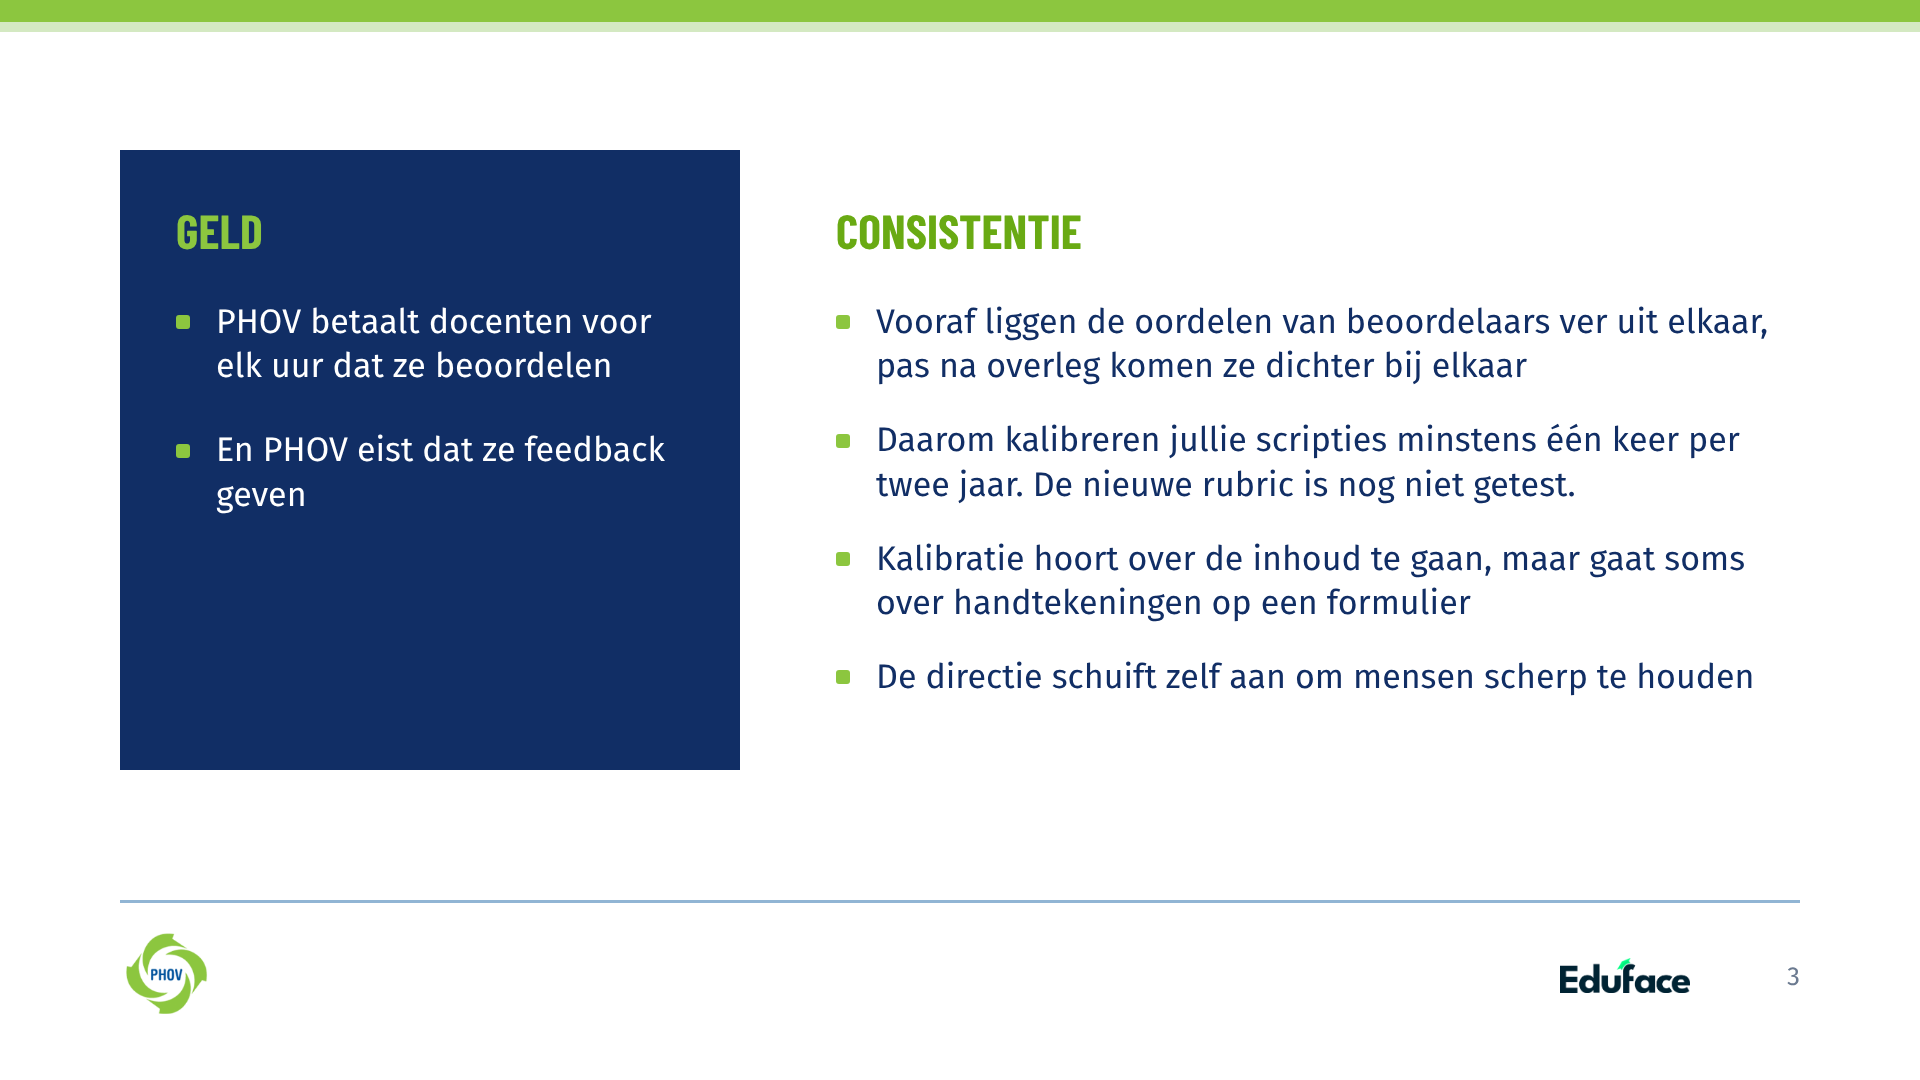
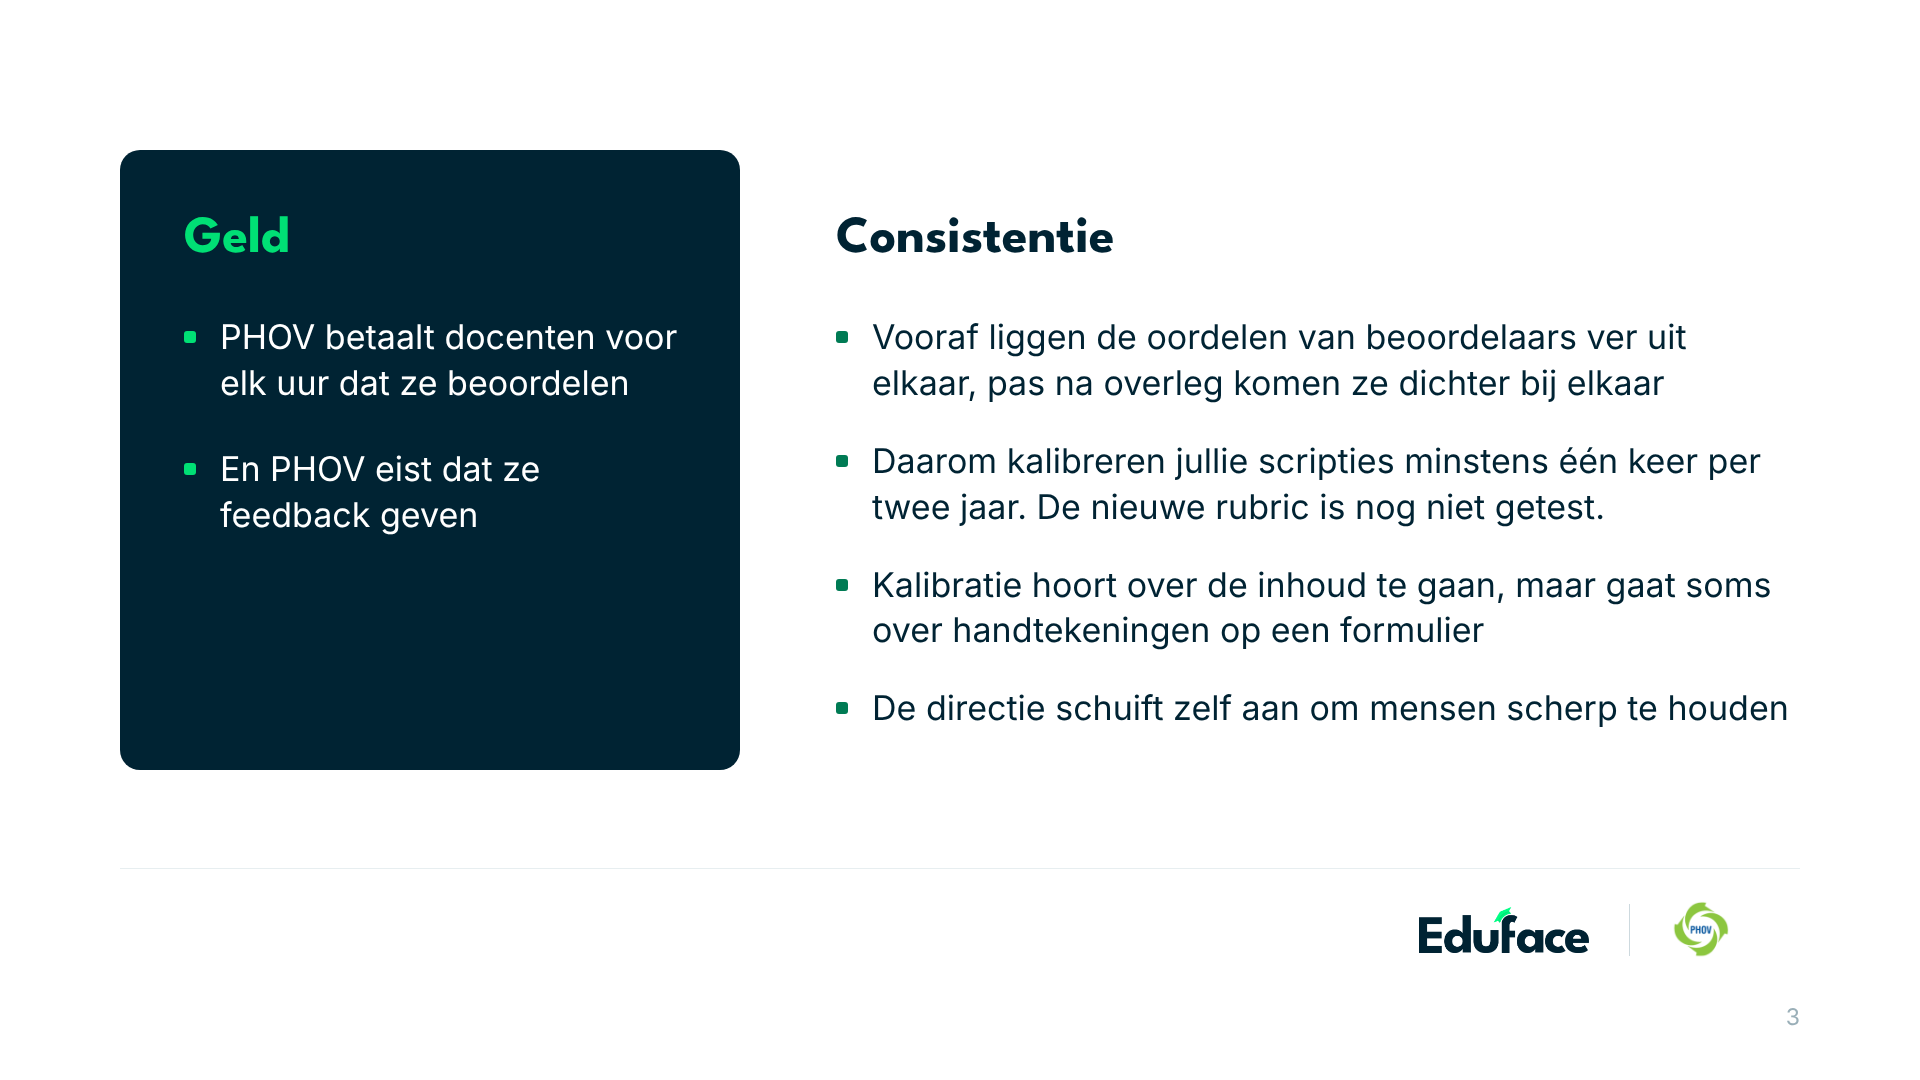
PHOV-deck: over naar Eduface-stijl, proefslide 3 opnieuw
Claude-Session: https://claude.ai/code/session_011t24oTGXT853tnxP2SMa8Y

diff --git a/GTM/Accounts/phov/deck/preview/slide-3.html b/GTM/Accounts/phov/deck/preview/slide-3.html
@@ -1,1 +1,1 @@
-<!DOCTYPE html><html lang="nl"><head><meta charset="utf-8"><link href="https://fonts.googleapis.com/css2?family=Barlow+Condensed:wght@400;700&family=Fira+Sans:wght@400;700&display=swap" rel="stylesheet"><style>*{margin:0;padding:0;box-sizing:border-box}.slide{position:relative;width:1920px;height:1080px;overflow:hidden;background:#fff}</style></head><body><div class="slide"><div style="position:absolute;left:0.0px;top:0.0px;width:1920.0px;height:22.0px;background:#8CC63F;border-radius:0.0px"></div><div style="position:absolute;left:0.0px;top:22.0px;width:1920.0px;height:10.0px;background:#D4E9C2;border-radius:0.0px"></div><div style="position:absolute;left:120.0px;top:900.0px;width:1680.0px;height:3.0px;background:#91B5D4;border-radius:0.0px"></div><img src="../assets/klant.png" style="position:absolute;left:120.0px;top:930.0px;width:90.0px;height:90.0px;object-fit:contain"><img src="../assets/logo_navy.png" style="position:absolute;left:1560.0px;top:958.0px;width:130.0px;height:35.0px;object-fit:contain"><div style="position:absolute;left:1720.0px;top:960.0px;width:80.0px;height:36.0px;font-family:'Fira Sans',sans-serif;font-size:26px;font-weight:400;color:#6B7A90;text-align:right;line-height:1.3;white-space:pre-line;outline:var(--dbg)">3</div><div style="position:absolute;left:120.0px;top:150.0px;width:620.0px;height:620.0px;background:#112E65;border-radius:0.0px"></div><div style="position:absolute;left:176.0px;top:206.0px;width:520.0px;height:60.0px;font-family:'Barlow Condensed',sans-serif;font-size:48px;font-weight:700;color:#8CC63F;text-align:left;line-height:1.0;white-space:pre-line;outline:var(--dbg)">GELD</div><div style="position:absolute;left:176.0px;top:315.1px;width:14.0px;height:14.0px;background:#8CC63F;border-radius:3.0px"></div><div style="position:absolute;left:216.0px;top:300.0px;width:480.0px;height:88.4px;font-family:'Fira Sans',sans-serif;font-size:34px;font-weight:400;color:#FFFFFF;text-align:left;line-height:1.3;white-space:pre-line;outline:var(--dbg)">PHOV betaalt docenten voor elk uur dat ze beoordelen</div><div style="position:absolute;left:176.0px;top:443.5px;width:14.0px;height:14.0px;background:#8CC63F;border-radius:3.0px"></div><div style="position:absolute;left:216.0px;top:428.4px;width:480.0px;height:88.4px;font-family:'Fira Sans',sans-serif;font-size:34px;font-weight:400;color:#FFFFFF;text-align:left;line-height:1.3;white-space:pre-line;outline:var(--dbg)">En PHOV eist dat ze feedback geven</div><div style="position:absolute;left:836.0px;top:206.0px;width:800.0px;height:60.0px;font-family:'Barlow Condensed',sans-serif;font-size:48px;font-weight:700;color:#69AA13;text-align:left;line-height:1.0;white-space:pre-line;outline:var(--dbg)">CONSISTENTIE</div><div style="position:absolute;left:836.0px;top:315.1px;width:14.0px;height:14.0px;background:#8CC63F;border-radius:3.0px"></div><div style="position:absolute;left:876.0px;top:300.0px;width:924.0px;height:88.4px;font-family:'Fira Sans',sans-serif;font-size:34px;font-weight:400;color:#112E65;text-align:left;line-height:1.3;white-space:pre-line;outline:var(--dbg)">Vooraf liggen de oordelen van beoordelaars ver uit elkaar, pas na overleg komen ze dichter bij elkaar</div><div style="position:absolute;left:836.0px;top:433.5px;width:14.0px;height:14.0px;background:#8CC63F;border-radius:3.0px"></div><div style="position:absolute;left:876.0px;top:418.4px;width:924.0px;height:88.4px;font-family:'Fira Sans',sans-serif;font-size:34px;font-weight:400;color:#112E65;text-align:left;line-height:1.3;white-space:pre-line;outline:var(--dbg)">Daarom kalibreren jullie scripties minstens één keer per twee jaar. De nieuwe rubric is nog niet getest.</div><div style="position:absolute;left:836.0px;top:551.9px;width:14.0px;height:14.0px;background:#8CC63F;border-radius:3.0px"></div><div style="position:absolute;left:876.0px;top:536.8px;width:924.0px;height:88.4px;font-family:'Fira Sans',sans-serif;font-size:34px;font-weight:400;color:#112E65;text-align:left;line-height:1.3;white-space:pre-line;outline:var(--dbg)">Kalibratie hoort over de inhoud te gaan, maar gaat soms over handtekeningen op een formulier</div><div style="position:absolute;left:836.0px;top:670.3px;width:14.0px;height:14.0px;background:#8CC63F;border-radius:3.0px"></div><div style="position:absolute;left:876.0px;top:655.2px;width:924.0px;height:44.2px;font-family:'Fira Sans',sans-serif;font-size:34px;font-weight:400;color:#112E65;text-align:left;line-height:1.3;white-space:pre-line;outline:var(--dbg)">De directie schuift zelf aan om mensen scherp te houden</div></div></body></html>
+<!DOCTYPE html><html lang="nl"><head><meta charset="utf-8"><link href="https://fonts.googleapis.com/css2?family=League+Spartan:wght@400;600;700;800&family=Inter:wght@400;500;600;700&display=swap" rel="stylesheet"><style>*{margin:0;padding:0;box-sizing:border-box}html,body{background:#fff}.slide{position:relative;width:1920px;height:1080px;overflow:hidden;background:#fff}</style></head><body><div class="slide"><div style="position:absolute;left:120.0px;top:150.0px;width:620.0px;height:620.0px;background:#002333;border-radius:20.0px"></div><div style="position:absolute;left:184.0px;top:214.0px;width:500.0px;height:64.0px;font-family:'League Spartan',sans-serif;font-size:52px;font-weight:700;color:#00E075;text-align:left;line-height:1.0;white-space:pre-line">Geld</div><div style="position:absolute;left:184.0px;top:330.9px;width:12.0px;height:12.0px;background:#00E075;border-radius:3.0px"></div><div style="position:absolute;left:220.0px;top:314.0px;width:464.0px;height:91.8px;font-family:'Inter',sans-serif;font-size:34px;font-weight:400;color:#FFFFFF;text-align:left;line-height:1.35;white-space:pre-line">PHOV betaalt docenten voor elk uur dat ze beoordelen</div><div style="position:absolute;left:184.0px;top:462.8px;width:12.0px;height:12.0px;background:#00E075;border-radius:3.0px"></div><div style="position:absolute;left:220.0px;top:445.8px;width:464.0px;height:91.8px;font-family:'Inter',sans-serif;font-size:34px;font-weight:400;color:#FFFFFF;text-align:left;line-height:1.35;white-space:pre-line">En PHOV eist dat ze feedback geven</div><div style="position:absolute;left:836.0px;top:214.0px;width:800.0px;height:64.0px;font-family:'League Spartan',sans-serif;font-size:52px;font-weight:700;color:#002333;text-align:left;line-height:1.0;white-space:pre-line">Consistentie</div><div style="position:absolute;left:836.0px;top:330.9px;width:12.0px;height:12.0px;background:#007B54;border-radius:3.0px"></div><div style="position:absolute;left:872.0px;top:314.0px;width:928.0px;height:91.8px;font-family:'Inter',sans-serif;font-size:34px;font-weight:400;color:#002333;text-align:left;line-height:1.35;white-space:pre-line">Vooraf liggen de oordelen van beoordelaars ver uit elkaar, pas na overleg komen ze dichter bij elkaar</div><div style="position:absolute;left:836.0px;top:454.8px;width:12.0px;height:12.0px;background:#007B54;border-radius:3.0px"></div><div style="position:absolute;left:872.0px;top:437.8px;width:928.0px;height:91.8px;font-family:'Inter',sans-serif;font-size:34px;font-weight:400;color:#002333;text-align:left;line-height:1.35;white-space:pre-line">Daarom kalibreren jullie scripties minstens één keer per twee jaar. De nieuwe rubric is nog niet getest.</div><div style="position:absolute;left:836.0px;top:578.6px;width:12.0px;height:12.0px;background:#007B54;border-radius:3.0px"></div><div style="position:absolute;left:872.0px;top:561.6px;width:928.0px;height:91.8px;font-family:'Inter',sans-serif;font-size:34px;font-weight:400;color:#002333;text-align:left;line-height:1.35;white-space:pre-line">Kalibratie hoort over de inhoud te gaan, maar gaat soms over handtekeningen op een formulier</div><div style="position:absolute;left:836.0px;top:702.4px;width:12.0px;height:12.0px;background:#007B54;border-radius:3.0px"></div><div style="position:absolute;left:872.0px;top:685.4px;width:928.0px;height:45.9px;font-family:'Inter',sans-serif;font-size:34px;font-weight:400;color:#002333;text-align:left;line-height:1.35;white-space:pre-line">De directie schuift zelf aan om mensen scherp te houden</div><div style="position:absolute;left:120.0px;top:868.0px;width:1680.0px;height:1.0px;background:#E7EEF0;border-radius:0.0px"></div><img src="../assets/logo_navy.png" style="position:absolute;left:1419.0px;top:907.0px;width:170.0px;height:46.0px;object-fit:contain"><div style="position:absolute;left:1629.0px;top:904.0px;width:1.0px;height:52.0px;background:#CDD9DE;border-radius:0.0px"></div><img src="../assets/klant.png" style="position:absolute;left:1670.0px;top:900.0px;width:60.0px;height:60.0px;object-fit:contain"><div style="position:absolute;left:1700.0px;top:1004.0px;width:100.0px;height:36.0px;font-family:'Inter',sans-serif;font-size:23px;font-weight:400;color:#9AAFB8;text-align:right;line-height:1.15;white-space:pre-line">3</div></div></body></html>

diff --git a/GTM/Accounts/phov/deck/build.py b/GTM/Accounts/phov/deck/build.py
@@ -1,103 +1,57 @@
-"""PHOV-deck in PHOV-huisstijl (phov.nl, oktober 2026).
+"""PHOV-deck in Eduface-stijl.
 
-Hergebruikt de elementen en de pptx-renderer van de pitch-deck-skill, met eigen
-kleuren, fonts en voet. Draai vanuit deze map: python3 build.py [slidenummers]
+Gebouwd op de pitch-deck-skill (deckbuild.py). Geen slidetitels: de content draagt
+de slide (Dante, 29-10-2026). Draai vanuit deze map: python3 build.py [slidenummers]
 """
-import html as H, sys
+import subprocess, sys
 sys.path.insert(0, '/home/user/Claude/.claude/skills/pitch-deck')
-from deckbuild import rect, pic, render_pptx
+sys.dont_write_bytecode = True
+import deckbuild as D
+from deckbuild import (rect, text, foot, render_html, render_pptx,
+                       NAVY, GREEN, GREEN_DEEP, INK50, INK500, WHITE, HEAD, M)
 
-# Uit phov.nl/css/style.css
-NAVY, BLUE = '112E65', '00539B'
-GREEN, GREEN_DK, GREEN_LT = '8CC63F', '69AA13', 'D4E9C2'
-BLUE_LT, INK = 'EEF3F7', '333333'
-WHITE, MUTED, LINE = 'FFFFFF', '6B7A90', 'C1D5E6'
-# Site: Helvetica Rounded Condensed Bold (koppen) en Meta Plus (tekst).
-# Vrij beschikbare evenknieën, ook in Canva: Barlow Condensed en Fira Sans (Meta-familie).
-HEAD, BODY = 'Barlow Condensed', 'Fira Sans'
-M = 120
+# PHOV-logo is vierkant
+D.KLANT_W, D.KLANT_H = 60, 60
 
 
-def text(x, y, w, h, t, *, font=BODY, size=34, bold=False, color=NAVY, align='left', ls=1.3):
-    return dict(k='text', x=x, y=y, w=w, h=h, t=t, font=font, size=size,
-                bold=bold, color=color, align=align, ls=ls)
+def label(x, y, t, color=NAVY, w=800):
+    return text(x, y, w, 64, t, font=HEAD, size=52, bold=True, color=color, align='left', ls=1.0)
 
 
-def label(x, y, t, color=GREEN_DK, w=800):
-    return text(x, y, w, 60, t.upper(), font=HEAD, size=48, bold=True, color=color, ls=1.0)
-
-
-def bullets(x, y, w, items, *, size=34, gap=30, color=NAVY, dot=GREEN, lines=None):
-    """Elk item een eigen tekstvak met een groen blokje ervoor.
-    lines: aantal regels per item (geen auto-layout, zie reference.md)."""
-    out, lh = [], size * 1.3
-    lines = lines or [2] * len(items)
-    for t, n in zip(items, lines):
-        out.append(rect(x, y + lh / 2 - 7, 14, 14, dot, r=3))
-        out.append(text(x + 40, y, w - 40, n * lh, t, size=size, color=color))
+def bullets(x, y, w, items, *, size=34, gap=32, color=NAVY, dot=GREEN_DEEP, lines=None):
+    """Elk item een eigen tekstvak met een blokje ervoor.
+    lines: aantal regels per item, want er is geen auto-layout (reference.md)."""
+    out, lh = [], size * 1.35
+    for t, n in zip(items, lines or [2] * len(items)):
+        out.append(rect(x, y + lh / 2 - 6, 12, 12, dot, r=3))
+        out.append(text(x + 36, y, w - 36, n * lh, t, size=size, color=color,
+                        align='left', ls=1.35))
         y += n * lh + gap
     return out
 
 
-def frame(page):
-    """Groene balk boven zoals op phov.nl, voet met logo's en paginanummer."""
-    return [rect(0, 0, 1920, 22, GREEN), rect(0, 22, 1920, 10, GREEN_LT),
-            rect(M, 900, 1920 - 2 * M, 3, '91B5D4'),
-            pic('assets/klant.png', M, 930, 90, 90),
-            pic('assets/logo_navy.png', 1560, 958, 130, 35),
-            text(1720, 960, 80, 36, str(page), size=26, color=MUTED, align='right')]
-
-
-def render_html(els, path, prefix='../'):
-    parts = []
-    for el in els:
-        st = (f"left:{el['x']:.1f}px;top:{el['y']:.1f}px;"
-              f"width:{el['w']:.1f}px;height:{el['h']:.1f}px;")
-        if el['k'] == 'rect':
-            parts.append(f'<div style="position:absolute;{st}background:#{el["fill"]};'
-                         f'border-radius:{el.get("r",0):.1f}px"></div>')
-        elif el['k'] == 'pic':
-            parts.append(f'<img src="{prefix}{el["p"]}" style="position:absolute;{st}object-fit:contain">')
-        elif el['k'] == 'text':
-            parts.append(
-                f'<div style="position:absolute;{st}font-family:\'{el["font"]}\',sans-serif;'
-                f'font-size:{el["size"]}px;font-weight:{700 if el["bold"] else 400};'
-                f'color:#{el["color"]};text-align:{el["align"]};line-height:{el["ls"]};'
-                f'white-space:pre-line;outline:var(--dbg)">{H.escape(el["t"])}</div>')
-    open(path, 'w', encoding='utf-8').write(
-        '<!DOCTYPE html><html lang="nl"><head><meta charset="utf-8">'
-        '<link href="https://fonts.googleapis.com/css2?family=Barlow+Condensed:wght@400;700'
-        '&family=Fira+Sans:wght@400;700&display=swap" rel="stylesheet">'
-        '<style>*{margin:0;padding:0;box-sizing:border-box}'
-        '.slide{position:relative;width:1920px;height:1080px;overflow:hidden;background:#fff}'
-        '</style></head><body><div class="slide">' + ''.join(parts) + '</div></body></html>')
-    return path
-
-
 def shoot(pages):
-    """pages: [(html, png)]. Meldt tekst die buiten zijn kader loopt."""
-    import subprocess
+    """Screenshot plus overloopcheck via Playwright (node), zie shoot.js."""
     subprocess.run(['node', 'shoot.js'] + [f for pair in pages for f in pair], check=True)
 
 
 # ---------------------------------------------------------------- slides
 def s3():
-    els = frame(3)
-    # Links: geld, op navy vlak zoals het nieuwsbriefblok op phov.nl
-    els += [rect(M, 150, 620, 620, NAVY)]
-    els += [label(M + 56, 206, 'Geld', color=GREEN, w=520)]
-    els += bullets(M + 56, 300, 520, [
+    els = [rect(M, 150, 620, 620, NAVY, r=20),
+           label(M + 64, 214, 'Geld', color=GREEN, w=500)]
+    els += bullets(M + 64, 314, 500, [
         'PHOV betaalt docenten voor elk uur dat ze beoordelen',
         'En PHOV eist dat ze feedback geven',
-    ], color=WHITE, lines=[2, 2], gap=40)
+    ], color=WHITE, dot=GREEN, lines=[2, 2], gap=40)
     x = M + 620 + 96
-    els += [label(x, 206, 'Consistentie')]
-    els += bullets(x, 300, 1920 - M - x, [
+    els += [label(x, 214, 'Consistentie')]
+    els += bullets(x, 314, 1920 - M - x, [
         'Vooraf liggen de oordelen van beoordelaars ver uit elkaar, pas na overleg komen ze dichter bij elkaar',
         'Daarom kalibreren jullie scripties minstens één keer per twee jaar. De nieuwe rubric is nog niet getest.',
         'Kalibratie hoort over de inhoud te gaan, maar gaat soms over handtekeningen op een formulier',
         'De directie schuift zelf aan om mensen scherp te houden',
     ], lines=[2, 2, 2, 1])
+    els += foot(page=3)
     return els
 
 
